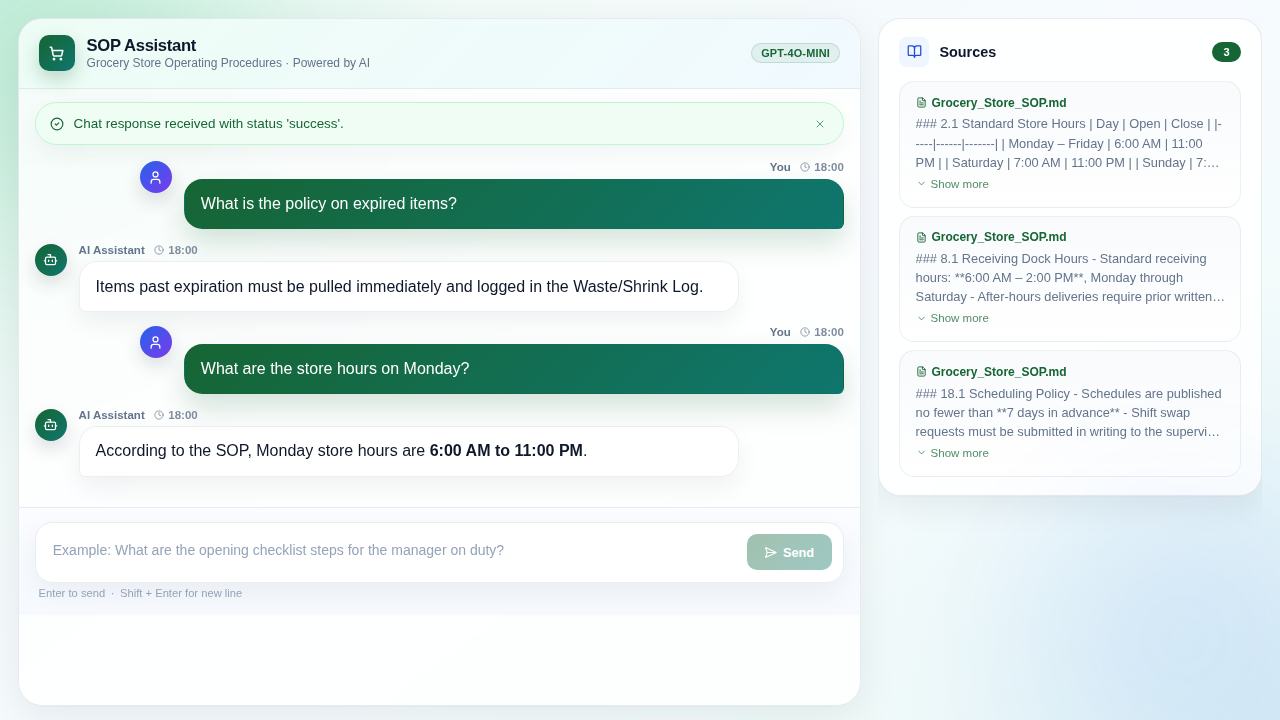
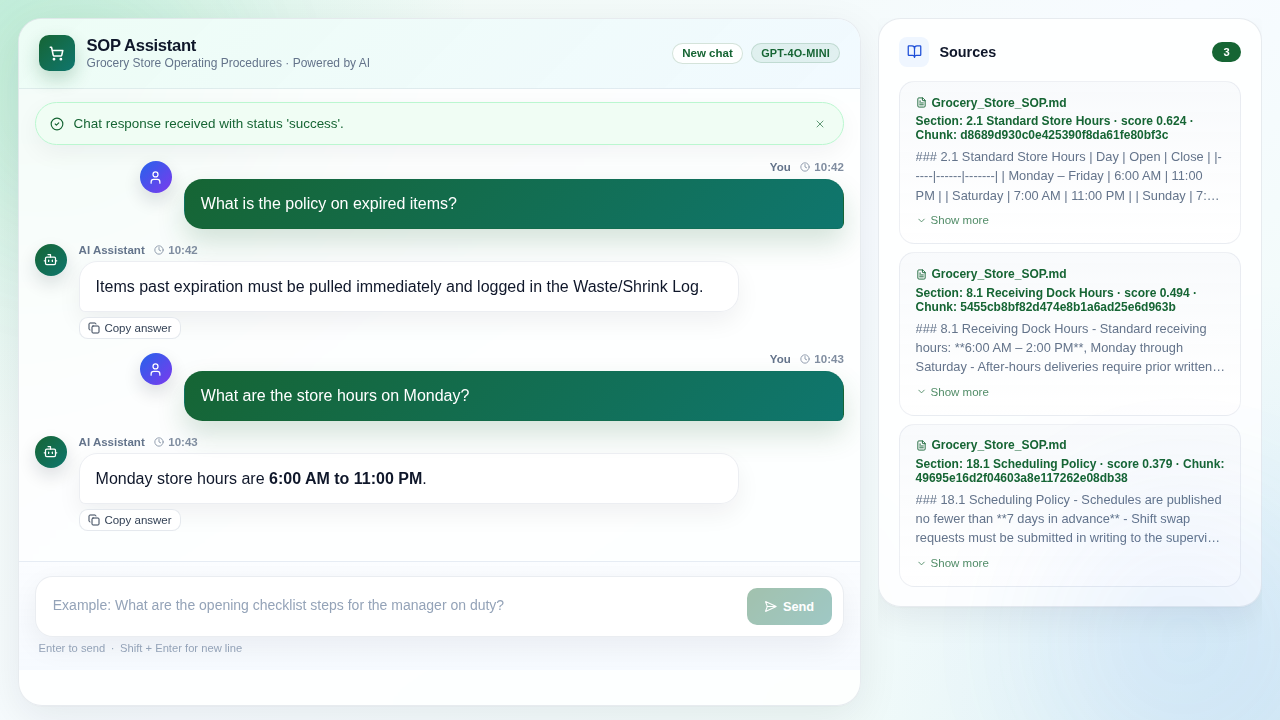
feat: improve test assertions and add session storage handling in ChatPage

diff --git a/frontend/src/pages/ChatPage.tsx b/frontend/src/pages/ChatPage.tsx
@@ -18,6 +18,28 @@ interface StoredChatSession {
   citations: Citation[]
 }
 
+function loadStoredChatSession(): StoredChatSession | null {
+  try {
+    const raw = sessionStorage.getItem(CHAT_SESSION_KEY)
+    if (!raw) {
+      return null
+    }
+
+    const stored = JSON.parse(raw) as Partial<StoredChatSession>
+    return {
+      conversationId:
+        typeof stored.conversationId === 'string' && stored.conversationId.length > 0
+          ? stored.conversationId
+          : globalThis.crypto.randomUUID(),
+      messages: Array.isArray(stored.messages) ? stored.messages : [],
+      citations: Array.isArray(stored.citations) ? stored.citations : [],
+    }
+  } catch {
+    sessionStorage.removeItem(CHAT_SESSION_KEY)
+    return null
+  }
+}
+
 function createMessage(role: ChatMessage['role'], content: string): ChatMessage {
   return {
     id: globalThis.crypto.randomUUID(),
@@ -37,7 +59,10 @@ function isRequestCancelledError(error: unknown): boolean {
 }
 
 export function ChatPage() {
-  const [conversationId, setConversationId] = useState<string>(() => globalThis.crypto.randomUUID())
+  const [initialSession] = useState<StoredChatSession | null>(() => loadStoredChatSession())
+  const [conversationId, setConversationId] = useState<string>(
+    () => initialSession?.conversationId ?? globalThis.crypto.randomUUID(),
+  )
   const [draft, setDraft] = useState('')
   const [isSending, setIsSending] = useState(false)
   const [isIngesting, setIsIngesting] = useState(false)
@@ -45,39 +70,17 @@ export function ChatPage() {
   const [lastFailedDraft, setLastFailedDraft] = useState<string | null>(null)
   const [hasIngestToRetry, setHasIngestToRetry] = useState(false)
   const [lastIngestFile, setLastIngestFile] = useState<File | undefined>(undefined)
-  const [citations, setCitations] = useState<Citation[]>([])
+  const [citations, setCitations] = useState<Citation[]>(() => initialSession?.citations ?? [])
   const [status, setStatus] = useState<StatusMessage>({
     tone: 'info',
     message: 'Checking backend health…',
   })
-  const [messages, setMessages] = useState<ChatMessage[]>([])
+  const [messages, setMessages] = useState<ChatMessage[]>(() => initialSession?.messages ?? [])
   const chatAbortRef = useRef<AbortController | null>(null)
   const ingestAbortRef = useRef<AbortController | null>(null)
   const statusBannerRef = useRef<HTMLElement | null>(null)
   // null = health check in progress; false = not yet ingested; true = ingested
   const [isIngested, setIsIngested] = useState<boolean | null>(null)
-
-  useEffect(() => {
-    try {
-      const raw = sessionStorage.getItem(CHAT_SESSION_KEY)
-      if (!raw) {
-        return
-      }
-
-      const stored = JSON.parse(raw) as StoredChatSession
-      if (stored.conversationId) {
-        setConversationId(stored.conversationId)
-      }
-      if (Array.isArray(stored.messages)) {
-        setMessages(stored.messages)
-      }
-      if (Array.isArray(stored.citations)) {
-        setCitations(stored.citations)
-      }
-    } catch {
-      sessionStorage.removeItem(CHAT_SESSION_KEY)
-    }
-  }, [])
 
   useEffect(() => {
     const snapshot: StoredChatSession = {
@@ -120,7 +123,9 @@ export function ChatPage() {
         const health = await apiClient.getHealth()
 
         if (!isCancelled) {
-          const isFallbackMode = health.notes.some((note) => /fallback|no openai api key/i.test(note))
+          const isFallbackMode = health.notes.some((note) =>
+            /fallback|no openai api key/i.test(note),
+          )
           setIsOfflineMode(isFallbackMode)
           setIsIngested(health.isIngested)
           setStatus({

diff --git a/frontend/src/services/apiClient.ts b/frontend/src/services/apiClient.ts
@@ -38,11 +38,7 @@ export class ApiClientError extends Error {
   public readonly status: number
   public readonly code: ApiErrorCode
 
-  constructor(
-    message: string,
-    status: number,
-    code: ApiErrorCode,
-  ) {
+  constructor(message: string, status: number, code: ApiErrorCode) {
     super(message)
     this.status = status
     this.code = code
@@ -51,7 +47,8 @@ export class ApiClientError extends Error {
 }
 
 const fallbackApiBaseUrl = (import.meta.env.VITE_API_BASE_URL ?? 'http://localhost:5181').replace(
-  /\/$/, '',
+  /\/$/,
+  '',
 )
 let runtimeConfigPromise: Promise<RuntimeConfig> | null = null
 
@@ -80,7 +77,10 @@ async function resolveApiBaseUrl(): Promise<string> {
   return (config.apiBaseUrl ?? fallbackApiBaseUrl).replace(/\/$/, '')
 }
 
-function buildErrorMessage(status: number, body: LegacyErrorBody | ProblemDetailsBody | null): string {
+function buildErrorMessage(
+  status: number,
+  body: LegacyErrorBody | ProblemDetailsBody | null,
+): string {
   if (!body) {
     return `Request failed with status ${status}`
   }

diff --git a/e2e/tests/chat.spec.ts b/e2e/tests/chat.spec.ts
@@ -19,9 +19,12 @@ test("ingest and chat", async ({ page }) => {
     await expect(statusBanner).toHaveAttribute("data-tone", /success|warning/, {
       timeout: 90000,
     });
-    await expect(statusBanner).toContainText(/ingested successfully|already ingested/i, {
-      timeout: 90000,
-    });
+    await expect(statusBanner).toContainText(
+      /ingested successfully|already ingested/i,
+      {
+        timeout: 90000,
+      },
+    );
   }
 
   // 2. Chat — wait for the chat layout (input is always present once ingested)

diff --git a/e2e/tests/evidence.spec.ts b/e2e/tests/evidence.spec.ts
@@ -22,9 +22,12 @@ test("generate evidences", async ({ page }) => {
     await expect(statusBanner).toHaveAttribute("data-tone", /success|warning/, {
       timeout: 90000,
     });
-    await expect(statusBanner).toContainText(/ingested successfully|already ingested/i, {
-      timeout: 90000,
-    });
+    await expect(statusBanner).toContainText(
+      /ingested successfully|already ingested/i,
+      {
+        timeout: 90000,
+      },
+    );
   }
   await page.screenshot({ path: "../evidences/02-after-ingest.png" });
 

diff --git a/frontend/src/components/ChatTranscript.test.tsx b/frontend/src/components/ChatTranscript.test.tsx
@@ -84,9 +84,9 @@ describe('ChatTranscript', () => {
       dispatchEvent: vi.fn(),
     }))
 
-    const scrollIntoView = vi.spyOn(HTMLElement.prototype, 'scrollIntoView').mockImplementation(
-      () => {},
-    )
+    const scrollIntoView = vi
+      .spyOn(HTMLElement.prototype, 'scrollIntoView')
+      .mockImplementation(() => {})
 
     render(<ChatTranscript messages={mockMessages} />)
 

diff --git a/frontend/src/components/CitationsPanel.tsx b/frontend/src/components/CitationsPanel.tsx
@@ -81,7 +81,9 @@ export function CitationsPanel({ citations, hasMessages = false }: CitationsPane
                       {citation.chunkId ? `Chunk: ${citation.chunkId}` : ''}
                     </p>
                   )}
-                  <p className={`citation-snippet${isExpanded ? ' citation-snippet--expanded' : ''}`}>
+                  <p
+                    className={`citation-snippet${isExpanded ? ' citation-snippet--expanded' : ''}`}
+                  >
                     {citation.snippet}
                   </p>
                 </button>

diff --git a/frontend/src/services/apiClient.test.ts b/frontend/src/services/apiClient.test.ts
@@ -155,7 +155,9 @@ describe('apiClient', () => {
   })
 
   it('returns request_cancelled for aborted fetches', async () => {
-    vi.mocked(fetch).mockRejectedValueOnce(new DOMException('The operation was aborted.', 'AbortError'))
+    vi.mocked(fetch).mockRejectedValueOnce(
+      new DOMException('The operation was aborted.', 'AbortError'),
+    )
     const controller = new AbortController()
     controller.abort()
 

diff --git a/frontend/eslint.config.js b/frontend/eslint.config.js
@@ -8,7 +8,7 @@ import prettierConfig from 'eslint-config-prettier'
 import { defineConfig, globalIgnores } from 'eslint/config'
 
 export default defineConfig([
-  globalIgnores(['dist']),
+  globalIgnores(['dist', 'coverage']),
   {
     files: ['**/*.{ts,tsx}'],
     extends: [

diff --git a/frontend/README.md b/frontend/README.md
@@ -6,27 +6,28 @@ When containerized, static assets are served by nginx using `frontend/nginx/defa
 
 ## Components
 
-| Component          | Description                                                                                           |
-| ------------------ | ----------------------------------------------------------------------------------------------------- |
-| `ChatPage`         | Root page — owns conversation state, health check on mount, ingest and send handlers (`useCallback`)  |
-| `ChatTranscript`   | Animated message history (Framer Motion fade + slide); auto-scrolls to latest turn and supports copy-answer action |
-| `ChatComposer`     | Auto-expanding textarea; Enter to send, Shift+Enter for newline; disabled while sending               |
+| Component          | Description                                                                                                                     |
+| ------------------ | ------------------------------------------------------------------------------------------------------------------------------- |
+| `ChatPage`         | Root page — owns conversation state, health check on mount, ingest and send handlers (`useCallback`)                            |
+| `ChatTranscript`   | Animated message history (Framer Motion fade + slide); auto-scrolls to latest turn and supports copy-answer action              |
+| `ChatComposer`     | Auto-expanding textarea; Enter to send, Shift+Enter for newline; disabled while sending                                         |
 | `CitationsPanel`   | Sidebar card listing source chunks returned by the API (`source`, `snippet`, optional line range) with selectable evidence rows |
-| `IngestPanel`      | Sidebar card with a single "Run Ingest" button; source path is server-side only                       |
-| `StatusBanner`     | Colour-coded banner (`info` / `success` / `warning` / `error`) for health, ingest, and error feedback |
-| `MarkdownContent`  | Renders assistant messages as Markdown with safe-link protocol allowlist and external-link indicator |
-| `AppErrorBoundary` | React error boundary catching unhandled render errors                                                 |
+| `IngestPanel`      | Sidebar card with a single "Run Ingest" button; source path is server-side only                                                 |
+| `StatusBanner`     | Colour-coded banner (`info` / `success` / `warning` / `error`) for health, ingest, and error feedback                           |
+| `MarkdownContent`  | Renders assistant messages as Markdown with safe-link protocol allowlist and external-link indicator                            |
+| `AppErrorBoundary` | React error boundary catching unhandled render errors                                                                           |
 
 ## Services & Types
 
-| File                    | Description                                                                                                                                                 |
-| ----------------------- | ----------------------------------------------------------------------------------------------------------------------------------------------------------- |
+| File                    | Description                                                                                                                                                                                                                |
+| ----------------------- | -------------------------------------------------------------------------------------------------------------------------------------------------------------------------------------------------------------------------- |
 | `services/apiClient.ts` | Typed HTTP client for `GET /api/v1/health`, `POST /api/v1/ingest`, `POST /api/v1/chat`; base URL from runtime `/config.json` with `VITE_API_BASE_URL` fallback and `ApiClientError` parsing for ProblemDetails/error codes |
-| `services/utils.ts`     | Shared utility helpers                                                                                                                                      |
-| `types/chat.ts`         | `ChatMessage`, `Citation`, `ChatRequest`, `ChatResponse`, `IngestRequest`, `IngestResponse`, `HealthResponse`, `StatusMessage`                              |
-| `types/validation.ts`   | Zod schemas (`ChatRequestSchema`, `IngestRequestSchema`) validating outgoing payloads                                                                       |
+| `services/utils.ts`     | Shared utility helpers                                                                                                                                                                                                     |
+| `types/chat.ts`         | `ChatMessage`, `Citation`, `ChatRequest`, `ChatResponse`, `IngestRequest`, `IngestResponse`, `HealthResponse`, `StatusMessage`                                                                                             |
+| `types/validation.ts`   | Zod schemas (`ChatRequestSchema`, `IngestRequestSchema`) validating outgoing payloads                                                                                                                                      |
 
 UX quality-of-life features:
+
 - Retry last failed chat request and retry failed ingest attempts
 - Start a fresh conversation with `New chat`
 - Visible offline/fallback mode badge when backend reports fallback mode
@@ -77,6 +78,6 @@ PowerShell on Windows:
 | `ChatTranscript.test.tsx`   | Renders empty state, displays messages, shows correct role labels               |
 | `CitationsPanel.test.tsx`   | Renders empty state and a list of citations with source and snippet             |
 | `IngestPanel.test.tsx`      | Renders button, triggers `onIngest`, disables while busy                        |
-| `MarkdownContent.test.tsx`  | Renders Markdown and validates link/HTML safety behavior                         |
+| `MarkdownContent.test.tsx`  | Renders Markdown and validates link/HTML safety behavior                        |
 | `StatusBanner.test.tsx`     | Renders all tone variants with correct accessible roles                         |
 | `validation.test.ts`        | Validates `ChatRequestSchema` and `IngestRequestSchema` with valid/invalid data |